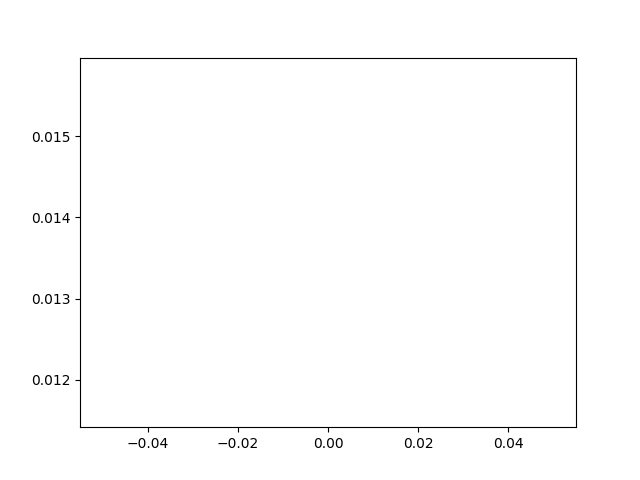
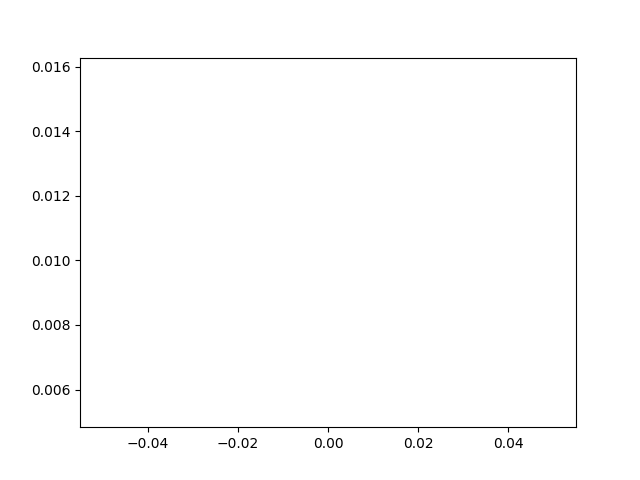
Training the meta-model on audio&priors

diff --git a/eval.py b/eval.py
@@ -1,5 +1,48 @@
 from train import *
 from sklearn.metrics import precision_score, recall_score, f1_score
+from torch.nn import BCEWithLogitsLoss
+
+def get_priorvec(i):
+    lon = test_df.iloc[i]["longitude"].round(0)
+    lat = test_df.iloc[i]["latitude"].round(0)
+    species = test_df.iloc[i]["primary_label"]
+
+    priorvec = torch.full((NUM_CLASSES,), 1.0 / NUM_CLASSES)
+
+    try:
+        loc_prior = prior.loc[(lat, lon)]
+
+        for species, p in loc_prior.items():
+            priorvec[label2id[species]] = p
+
+    except KeyError:
+        pass
+    return priorvec
+
+def get_priorvec_batch(i, b=BATCH_SIZE):
+    batch = train_df.iloc[i*b:i*b+b]
+
+    prior_list = []
+
+    for _, row in batch.iterrows():
+
+        lat = round(row["latitude"])
+        lon = round(row["longitude"])
+
+        priorvec = torch.full((NUM_CLASSES,), 1.0 / NUM_CLASSES)
+
+        try:
+            loc_prior = prior.loc[(lat, lon)]
+
+            for species, p in loc_prior.items():
+                priorvec[label2id[species]] = p
+
+        except KeyError:
+            pass
+
+        prior_list.append(priorvec)
+
+    return torch.stack(prior_list)   # <-- THIS gives (B, C)
 
 if __name__=="__main__":
 
@@ -19,70 +62,41 @@ if __name__=="__main__":
         torch.load("../bird_model5K20260529_002038.pth")
     )
     df, label2id = df_to_species(test_df)
-    logitslist = []
-    ytruelist = []
+    y_pred = []
+    y_true = []
 
     for i, (x, y) in tqdm(enumerate(test_loader)):
         x = x.to(DEVICE)
-
         model.eval()
+        """ FORWARD PASS """
 
         with torch.no_grad():
             logits = model(x)
-            logitslist.append(logits)
 
-        probs = torch.sigmoid(logits)
-        probs = torch.where(
-            probs < 1e-1,
-            torch.tensor(0.0, device=probs.device),
-            probs
-        )
-        y_pred = np.argmax(probs, axis=1)
-        ytruelist.append(y)
-        loss = criterion(logits, y)
+        p_audio = torch.sigmoid(logits).unsqueeze(0)
 
-        test_persample_loss += loss.item()/len(test_loader)
+        #probs = torch.where(probs < 1e-1,torch.tensor(0.0, device=probs.device),probs)
+        pred_species = np.argmax(p_audio)
 
-
-
-        lon = test_df.iloc[i]["longitude"].round(0)
-        lat = test_df.iloc[i]["latitude"].round(0)
-        species = test_df.iloc[i]["primary_label"]
-
-        try:
-            priorprob = prior.loc[(lat, lon, species)]
-        except KeyError:
-            priorprob = global_prior.get(species, 1.0 / NUM_CLASSES)
-
-        id = label2id[species]
-        priorvec = torch.zeros((NUM_CLASSES))
-        priorvec[id] = 1
-
-        print(id)
-        print(priorvec)
+        """ GET PRIOR PROBABILITY """
+        priorvec = get_priorvec(i).unsqueeze(0)
 
         alpha = 0.5
-        mixed_prob = probs * (priorprob ** alpha)
+        mixed_probs = p_audio * (priorvec.to(p_audio.device) ** alpha)
 
+        #y_pred = torch.argmax(mixed_probs).item()
+        #print(f" priorprob: {priorprob} y_pred: {int(probs[pred_species])} y: {np.argmax(y)}")
+        pred = torch.argmax(mixed_probs).item()
+        true = torch.argmax(y).item()
+
+        y_pred.append(pred)
+        y_true.append(true)
         #print(f" Mixed prob: {torch.round(mixed_prob * 100) / 100} Audio prob: {torch.round(torch.tensor(probs) * 100) / 100} Prior value: {torch.round(torch.tensor(priorprob) * 100) / 100}")
 
-
-    print(
-        f"test per sample loss {test_persample_loss:.4f} | ")
-    # 4. Calculate metrics
-
+    print(f"test per sample loss {test_persample_loss:.4f} | ")
     # 4. Calculate metrics. Compute binary probvector from logits (model output)
-    predictions = (np.array(logitslist) > 0.0).astype(int)
+    #predictions = (np.array(logitslist) > 0.0).astype(int)
 
-    precision = precision_score(ytruelist, logitslist)
-    recall = recall_score(ytruelist, logitslist)
-    f1 = f1_score(ytruelist, logitslist)
-
-    print(f"Precision: {precision:.2f}")
-    print(f"Recall: {recall:.2f}")
-    print(f"F1 Score: {f1:.2f}")
-
-    """ ######### """
-    model.load_state_dict(
-        torch.load("../bird_model5K20260528_233112.pth")
-    )
+    precision = precision_score(y_true,y_pred,average="macro",zero_division=0)
+    recall = recall_score(y_true,y_pred,average="macro",zero_division=0)
+    f1 = f1_score(y_true,y_pred,average="macro",zero_division=0)

diff --git a/metatrain.py b/metatrain.py
@@ -1,0 +1,64 @@
+from train import *
+from eval import *
+from torch import nn
+from torch.optim import Adam
+
+if __name__ == "__main__":
+    DEVICE = "cpu"
+
+    class MetaLogReg(nn.Module):
+        def __init__(self, num_classes):
+            super().__init__()
+            self.linear = nn.Linear(num_classes * 2, num_classes)
+
+        def forward(self, audio_probs, prior_probs):
+            x = torch.cat([audio_probs, prior_probs], dim=1)
+            return self.linear(x)
+
+
+    meta_model = MetaLogReg(NUM_CLASSES).to(DEVICE)
+    optimizer = Adam(meta_model.parameters(), lr=1e-3)
+    criterion = nn.BCEWithLogitsLoss()
+    """ Model for audio preds """
+    model = BirdModel(NUM_CLASSES)
+    model = model.to(DEVICE)
+    model.load_state_dict(
+        torch.load("../bird_model5K20260529_002038.pth")
+    )
+
+    meta_model.train()
+
+    logitslist_train_pred_5K002038model = []
+
+    for epoch in range(1):
+
+        total_loss = 0
+
+        for i, (x, y) in tqdm(enumerate(train_loader)):
+            x = x.to(DEVICE)
+            y = y.to(DEVICE).float()
+
+            with torch.no_grad():
+                logits = model(x)
+                logitslist_train_pred_5K002038model.append(logits)
+
+            audio_probs = torch.sigmoid(logits)
+            prior_probs = get_priorvec_batch(i)
+
+            preds = meta_model(audio_probs, prior_probs)
+
+            loss = criterion(preds, y.float())
+            optimizer.zero_grad()
+            loss.backward()
+            optimizer.step()
+
+            total_loss += loss.item()
+
+            if i%30==0:
+                np.save(logitslist_train_pred_5K002038model, "modeloutputs.npy")
+                torch.save(
+                    meta_model.state_dict(),
+                    "meta_model.pth"
+                )
+
+        print("epoch", epoch, "loss", total_loss)

diff --git a/dataset.py b/dataset.py
@@ -37,12 +37,12 @@ def df_to_species(df):
         k: v
         for v, k in enumerate(labels)
     }
-
+    """
     print(f"N of species in data: {len(label2id)}")
     print([
         label2id[label]
         for label in df["primary_label"].unique()
-    ])
+    ])"""
 
     return df, label2id
 
